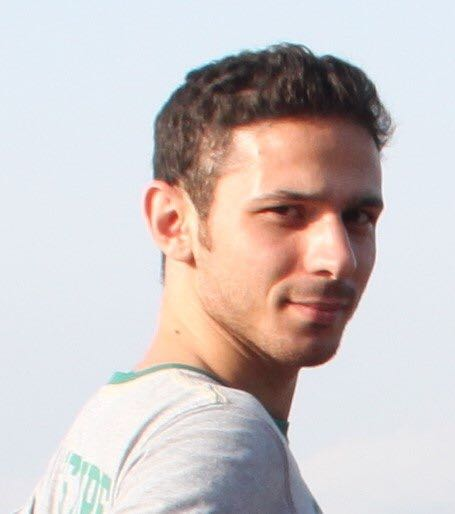
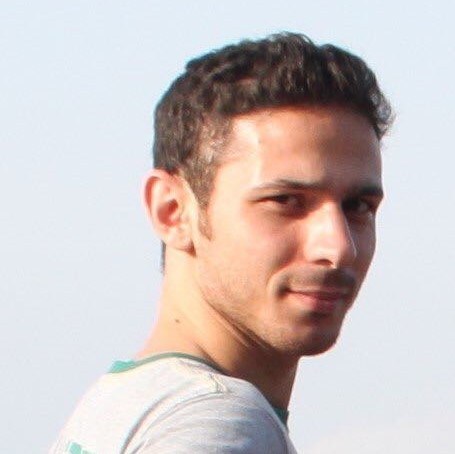
New layout team page

diff --git a/themes/hugo-universal-theme/static/css/style.default.css b/themes/hugo-universal-theme/static/css/style.default.css
@@ -3578,3 +3578,123 @@ a.list-group-item.active > .badge,
   left: 15px;
   right: 15px;
 }
+
+.lahti{
+  clip-path:ellipse(50% 50%);
+}
+
+.grid-container {
+  display: grid;
+  grid-template-columns: 1fr 1fr 1fr 1fr;
+  grid-template-rows: 4fr 0.5fr;
+  gap: 0px 50px;
+  grid-template-areas:
+    "matti guilhem pande aura"
+    "name-matti name-guilhem name-pande name-aura";
+  font-weight: bold;
+}
+
+.matti { grid-area: matti; text-align: center; clip-path:ellipse(50% 50%);}
+
+.guilhem { grid-area: guilhem; text-align: center; clip-path:ellipse(50% 50%);}
+
+.pande { grid-area: pande; text-align: center; clip-path:ellipse(50% 50%);}
+
+.aura { grid-area: aura; text-align: center; clip-path:ellipse(50% 50%);}
+
+.name-matti { grid-area: name-matti; text-align: center; padding-top: 10px;}
+
+.name-guilhem { grid-area: name-guilhem;  text-align: center; padding-top: 10px;}
+
+.name-pande { grid-area: name-pande;  text-align: center; padding-top: 10px;}
+
+.name-aura { grid-area: name-aura;  text-align: center; padding-top: 10px;}
+
+.grid-container-2 {
+  display: grid;
+  grid-template-columns: 1fr 1fr 1fr 1fr;
+  grid-template-rows: 4fr 0.5fr;
+  gap: 0px 40px;
+  grid-template-areas:
+    "ville moein chandler iiro vaara"
+    "name-ville name-moein name-chandler name-iiro name-vaara";
+  font-weight: bold;
+}
+
+.ville { grid-area: ville; text-align: center;  clip-path:ellipse(50% 50%);}
+
+.moein { grid-area: moein; text-align: center;  clip-path:ellipse(50% 50%);}
+
+.chandler { grid-area: chandler; text-align: center;  clip-path:ellipse(50% 50%);}
+
+.iiro { grid-area: iiro; text-align: center;  clip-path:ellipse(50% 50%);}
+
+.vaara { grid-area: vaara; text-align: center;  clip-path:ellipse(50% 50%);}
+
+.name-ville { grid-area: name-ville; text-align: center; padding-top: 10px;}
+
+.name-moein { grid-area: name-moein;  text-align: center; padding-top: 10px;}
+
+.name-chandler { grid-area: name-chandler;  text-align: center; padding-top: 10px;}
+
+.name-iiro { grid-area: name-iiro;  text-align: center; padding-top: 10px;}
+
+.name-vaara { grid-area: name-vaara;  text-align: center; padding-top: 10px;}
+
+.grid-container-3 {
+  display: grid;
+  grid-template-columns: 1fr 1fr 1fr 1fr;
+  grid-template-rows: 4fr 0.5fr;
+  gap: 0px 40px;
+  grid-template-areas:
+    "joonatan felix henrik mrunalini anna"
+    "name-joonatan name-felix name-henrik name-mrunalini name-anna";
+  font-weight: bold;
+}
+
+.joonatan { grid-area: joonatan; text-align: center; clip-path:ellipse(50% 50%);}
+
+.felix { grid-area: felix; text-align: center; clip-path:ellipse(50% 50%);}
+
+.henrik { grid-area: henrik; text-align: center; clip-path:ellipse(50% 50%);}
+
+.mrunalini { grid-area: mrunalini; text-align: center; clip-path:ellipse(50% 50%);}
+
+.anna { grid-area: anna; text-align: center; clip-path:ellipse(50% 50%);}
+
+.name-joonatan { grid-area: name-joonatan; text-align: center; padding-top: 10px;}
+
+.name-felix { grid-area: name-felix;  text-align: center; padding-top: 10px;}
+
+.name-henrik { grid-area: name-henrik;  text-align: center; padding-top: 10px;}
+
+.name-mrunalini { grid-area: name-mrunalini;  text-align: center; padding-top: 10px;}
+
+.name-anna { grid-area: name-anna;  text-align: center; padding-top: 10px;}
+
+.grid-container-4 {
+  display: grid;
+  grid-template-columns: 1fr 1fr 1fr 1fr;
+  grid-template-rows: 4fr 0.5fr;
+  gap: 0px 175px;
+  grid-template-areas:
+    "pyry tuomas julia renuka"
+    "name-pyry name-tuomas name-julia name-renuka";
+  font-weight: bold;
+}
+
+.pyry { grid-area: pyry; text-align: center; clip-path:ellipse(50% 50%);}
+
+.tuomas { grid-area: tuomas; text-align: center; clip-path:ellipse(50% 50%);}
+
+.julia { grid-area: julia; text-align: center; clip-path:ellipse(50% 50%);}
+
+.renuka { grid-area: renuka; text-align: center; clip-path:ellipse(50% 50%);}
+
+.name-pyry { grid-area: name-pyry; text-align: center; padding-top: 10px;}
+
+.name-tuomas { grid-area: name-tuomas;  text-align: center; padding-top: 10px;}
+
+.name-julia { grid-area: name-julia;  text-align: center; padding-top: 10px;}
+
+.name-renuka { grid-area: name-renuka;  text-align: center; padding-top: 10px;}

diff --git a/static/css/team.css b/static/css/team.css
@@ -1,0 +1,29 @@
+.grid-container {
+  display: grid;
+  grid-template-columns: 1fr 1fr 1fr 1fr;
+  grid-template-rows: 4fr 1fr;
+  gap: 0px 30px;
+  grid-template-areas:
+    "matti guilhem pande aura"
+    "name name name name";
+}
+
+
+.matti { grid-area: matti; }
+
+.guilhem { grid-area: guilhem; }
+
+.pande { grid-area: pande; }
+
+.aura { grid-area: aura; }
+
+.name { 
+  grid-area: name;
+  color:  red;
+ }
+
+.name { grid-area: name; }
+
+.name { grid-area: name; }
+
+.name { grid-area: name; }

diff --git a/content/team.md b/content/team.md
@@ -11,85 +11,117 @@ keywords: team
 <div class="col-sm-12 clearfix">
 
   <div class="col-sm-3 clearfix" width="25%"> 
-  <img src="../img/teampic/leo_sci.jpg" class="img-responsive" width="100%" style="float: left" /><br/>
+    <img src="../img/teampic/leo_sci_crop.jpg" class="img-responsive lahti" width="100%" style="float: left"/><br/>
+  </div>
 
 <!--  <a href="http://orcid.org/0000-0001-5537-637X"><img src='../img/orcid_qrcode_leolahti.png' title='Leo Lahti ORCID QR code 0000-0001-5537-637X' alt='ORCID: 0000-0001-5537-637X' width='33%'/></a> <a href="https://twitter.com/antagomir"><img src='../img/twitter.jpeg' title='antagomir@twitter' alt='https://twitter.com/antagomir' width='25%'/></a> -->
   
-  </div>
-
   <h4>Leo Lahti (Group leader)</h4>
 
   <ul style="overflow: hidden">
-  <li>Associate Professor (Data Science)</li>
-  <li>Academy of Finland Research Fellow 2016-2021</li>
-  <li>Director, Turku Center for Computational Humanities</li>
-  <li><a href="https://tenk.fi/en/research-misconduct/research-integrity-advisers">National Board on Research Integrity (TENK)</a> research integrity adviser</li>
-  <li> <a href="https://avointiede.fi/fi/koordinaatio">National open science coordination</a> steering group</li> 
-  <li> <a href="http://www.tkts.fi/etusivu">Finnish Society for Computer Science</a> board</li> 
-  <li><a href="https://turkucitydata.fi">Turku City Data Co.</a> Board member and scientific advisor.</li>  
-  <li><a href="https://blueprintgenetics.com">Blueprint Genetics</a>. Scientific Advisor (AI & ML)</li>
-  <li><a href="http://www.helsinki.fi/computational-history">Helsinki Computational History Group</a> founding member</li>      
-  <li><a href="http://fi.okfn.org/wg/openscience/">Open Science work group</a>, OKF Finland. Founding member.</li>
-
-  <li><a href="http://orcid.org/0000-0001-5537-637X">ORCID: 0000-0001-5537-637X</a>;
-<a href="http://www.researcherid.com/rid/G-3170-2010">ResearcherID: G-3170-2010</a>;
-<a href="https://tinyurl.com/ng6g6tk">Google Scholar</a>;
-<a href="https://www.scopus.com/authid/detail.uri?authorId=8679063700">Scopus</a>;
-<a href="http://www.researchgate.net/profile/Leo_Lahti/">ResearchGate</a>;
-<a href="https://publons.com/author/246930/leo-lahti#stats">Publon</a>;
-<a href="https://impactstory.org/u/0000-0001-5537-637X">ImpactStory</a>;
-<a href="http://depsy.org/person/333684">Depsy software impact</a>; 
-<a href="http://loop.frontiersin.org/people/295152/overview">Loop</a>; 
-<a href="https://www.scienceopen.com/user/statistics/leo_lahti">ScienceOpen</a>;
-<a href="http://www.ncbi.nlm.nih.gov/sites/myncbi/collections/public/1VaRtFbzqhfLWsXzDa1c5CSQK">PubMed</a>; 
-<li><a href="../contact">Contact information</a> for the research team</li> 
-<li><a href="https://twitter.com/antagomir">Twitter / @antagomir</a> personal account</li>
-<li><a href="pgp_lahti_pm.asc">PGP key</a>
-
-
-</ul>
-
+    <li>Associate Professor (Data Science)</li>
+    <li>Academy of Finland Research Fellow 2016-2021</li>
+    <li>Director, Turku Center for Computational Humanities</li>
+    <li><a href="https://tenk.fi/en/research-misconduct/research-integrity-advisers">National Board on Research Integrity (TENK)</a> research integrity adviser</li>
+    <li> <a href="https://avointiede.fi/fi/koordinaatio">National open science coordination</a> steering group</li> 
+    <li> <a href="http://www.tkts.fi/etusivu">Finnish Society for Computer Science</a> board</li> 
+    <li><a href="https://turkucitydata.fi">Turku City Data Co.</a> Board member and scientific advisor.</li>  
+    <li><a href="https://blueprintgenetics.com">Blueprint Genetics</a>. Scientific Advisor (AI & ML)</li>
+    <li><a href="http://www.helsinki.fi/computational-history">Helsinki Computational History Group</a> founding member</li>      
+    <li><a href="http://fi.okfn.org/wg/openscience/">Open Science work group</a>, OKF Finland. Founding member.</li>
+    <li>
+      <a href="http://orcid.org/0000-0001-5537-637X">ORCID: 0000-0001-5537-637X</a>;
+      <a href="http://www.researcherid.com/rid/G-3170-2010">ResearcherID: G-3170-2010</a>;
+      <a href="https://tinyurl.com/ng6g6tk">Google Scholar</a>;
+      <a href="https://www.scopus.com/authid/detail.uri?authorId=8679063700">Scopus</a>;
+      <a href="http://www.researchgate.net/profile/Leo_Lahti/">ResearchGate</a>;
+      <a href="https://publons.com/author/246930/leo-lahti#stats">Publon</a>;
+      <a href="https://impactstory.org/u/0000-0001-5537-637X">ImpactStory</a>;
+      <a href="http://depsy.org/person/333684">Depsy software impact</a>; 
+      <a href="http://loop.frontiersin.org/people/295152/overview">Loop</a>; 
+      <a href="https://www.scienceopen.com/user/statistics/leo_lahti">ScienceOpen</a>;
+      <a href="http://www.ncbi.nlm.nih.gov/sites/myncbi/collections/public/1VaRtFbzqhfLWsXzDa1c5CSQK">PubMed</a>; 
+    </li>
+    <li><a href="../contact">Contact information</a> for the research team</li> 
+    <li><a href="https://twitter.com/antagomir">Twitter / @antagomir</a> personal account</li>
+    <li><a href="pgp_lahti_pm.asc">PGP key</a>
+  </ul>
+<br>
 </div>
 
 
-
-<p></p>
-
 ## Postdocs
 
-Matti Ruuskanen             |  Guilhem Sommeria-Klein | [Pande Erawijantari](https://erawijantari.github.io) | Aura Raulo |
-:-------------------------:|:-------------------------:|:-------------------------:|:-------------------------:|
-<img src="../img/teampic/matti_ruuskanen.jpg" height="150">  | <img src="../img/teampic/guilhem_s.jpeg" height="150">  | <img src="../img/teampic/pande_erawijantari.jpg" height="150">  | <img src="../img/teampic/aura_raulo2_crop.jpg" height="150"> |
+<br>
+
+<div class="grid-container">
+  <div class="matti"><img src="../img/teampic/matti_ruuskanen.jpg" height="250"></div>
+  <div class="guilhem"><img src="../img/teampic/guilhem_s.jpeg" height="250"></div>
+  <div class="pande"><img src="../img/teampic/pande_erawijantari.jpg" height="250"></div>
+  <div class="aura"><img src="../img/teampic/aura_raulo2_crop.jpg" height="250"></div>
+  <div class="name-matti"> Matti Ruuskanen </div>
+  <div class="name-guilhem"> Guilhem Sommeria-Klein </div>
+  <div class="name-pande"><a href="https://erawijantari.github.io">Pande Erawijantari</a> </div>
+  <div class="name-aura"> Aura Raulo </div>
+</div>
 
 
+<br><br>
 
-    
 ## PhD candidates
 
 The affiliation for the co-supervised PhD candidates indicated in parentheses.
 
+<br>
 
-| Ville Laitinen | [Moein Khalighi](https://scholar.google.com/citations?user=XrlaLlUAAAAJ&hl=en) | Chandler Ross | Iiro Tiihonen (COMHIS) | Ville Vaara (COMHIS) |
-|:-------------------------:|:-------------------------:|:-------------------------:|:-------------------------:|:-------------------------:|
-<img src="../img/teampic/ville_laitinen.jpg" height="150"> | <img src="../img/teampic/moein_khalighi.jpg" height="150"> | <img src="../img/teampic/chandler_ross.jpeg" height="150"> | <img src="../img/teampic/iiro_tiihonen.jpeg" height="150"> | <img src="../img/teampic/ville_vaara.jpg" height="150"> |
+
+<div class="grid-container-2">
+  <div class="ville"><img src="../img/teampic/ville_laitinen_crop.jpg" height="200"></div>
+  <div class="moein"><img src="../img/teampic/moein_khalighi.jpg" height="200"></div>
+  <div class="chandler"><img src="../img/teampic/chandler_ross_crop.jpeg" height="200"></div>
+  <div class="iiro"><img src="../img/teampic/iiro_tiihonen_crop.jpeg" height="200"></div>
+  <div class="vaara"><img src="../img/teampic/ville_vaara.jpg" height="200"></div>
+  <div class="name-ville"> Ville Laitinen </div>
+  <div class="name-moein"><a href="https://scholar.google.com/citations?user=XrlaLlUAAAAJ&hl=en"> Moein Khalighi </a></div>
+  <div class="name-chandler"> Chandler Ross </div>
+  <div class="name-iiro"> Iiro Tiihonen (COMHIS) </div>
+  <div class="name-vaara"> Ville Vaara (COMHIS) </div>
+</div>
 
 -------------------------
 
-| Joonatan Palmu (THC) | Felix Vaura (THC) | Henrik Eckerman (Nijmegen) | Mrunalini Lotankar (VaMiPre) | Anna Sorjamaa (Oulu) | 
-|:-------------------------:|:-------------------------:|:-------------------------:|:-------------------------:|:-------------------------:|
-<img src="../img/teampic/joonatan_palmu.jpeg" height="150"> | <img src="../img/teampic/felix_vaura.jpeg" height="150"> | <img src="../img/teampic/henrik_eckerman.webp" height="150"> | <img src="../img/teampic/bio-photo.jpg" height="150"> | <img src="../img/teampic/bio-photo.jpg" height="150"> | 
+<div class="grid-container-3">
+  <div class="joonatan"><img src="../img/teampic/joonatan_palmu.jpeg" height="200"></div>
+  <div class="felix"><img src="../img/teampic/felix_vaura.jpeg" height="200"></div>
+  <div class="henrik"><img src="../img/teampic/henrik_eckerman_crop.jpg" height="200"></div>
+  <div class="mrunalini"><img src="../img/teampic/bio-photo.jpg" height="200"></div>
+  <div class="anna"><img src="../img/teampic/bio-photo.jpg" height="200"></div>
+  <div class="name-joonatan"> Joonatan Palmu (THC) </div>
+  <div class="name-felix"> Felix Vaura (THC) </div>
+  <div class="name-henrik"> Henrik Eckerman (Nijmegen) </div>
+  <div class="name-mrunalini"> Mrunalini Lotankar (VaMiPre) </div>
+  <div class="name-anna"> Anna Sorjamaa (Oulu) </div>
+</div>
 
--------------------------
 
+<br><br>
 ## Research assistants
 
-| Pyry Kantanen | Tuomas Borman | Julia Matveeva | Renuka Potbhare (Pune) | 
-|:-------------------------:|:-------------------------:|:-------------------------:|:-------------------------:|:-------------------------:|
-<img src="../img/teampic/pyry_kantanen.jpeg" height="150"> | <img src="../img/teampic/tuomas_borman.jpeg" height="150"> | <img src="../img/teampic/julia_matveeva.jpg" height="150"> | <img src="../img/teampic/renuka.jpg" height="150"> |
+<div class="grid-container-4">
+  <div class="pyry"><img src="../img/teampic/pyry_kantanen.jpeg" height="154"></div>
+  <div class="tuomas"><img src="../img/teampic/tuomas_borman.jpeg" height="154"></div>
+  <div class="julia"><img src="../img/teampic/julia_matveeva_crop.jpg" height="154"></div>
+  <div class="renuka"><img src="../img/teampic/renuka_crop.jpg" height="154" ></div>
+  <div class="name-pyry"> Pyry Kantanen </div>
+  <div class="name-tuomas"> Tuomas Borman </div>
+  <div class="name-julia"> Julia Matveeva </div>
+  <div class="name-renuka"> Renuka Potbhare (Pune) </div>
+</div>
 
 
 
 
+<br><br>
 ## Alumni
 
 Anna Aatsinki (2019-2021) | Wisam Saleem (2019-2020) | Prashant Gaikwad (2019) | Aaro Salosensaari (2019-2020) | Anastasia Karavaeva (2019) | Tim Garrels (2020) | Hege Roivainen (2016-2020) | Binu Matthew (2019-2020)
